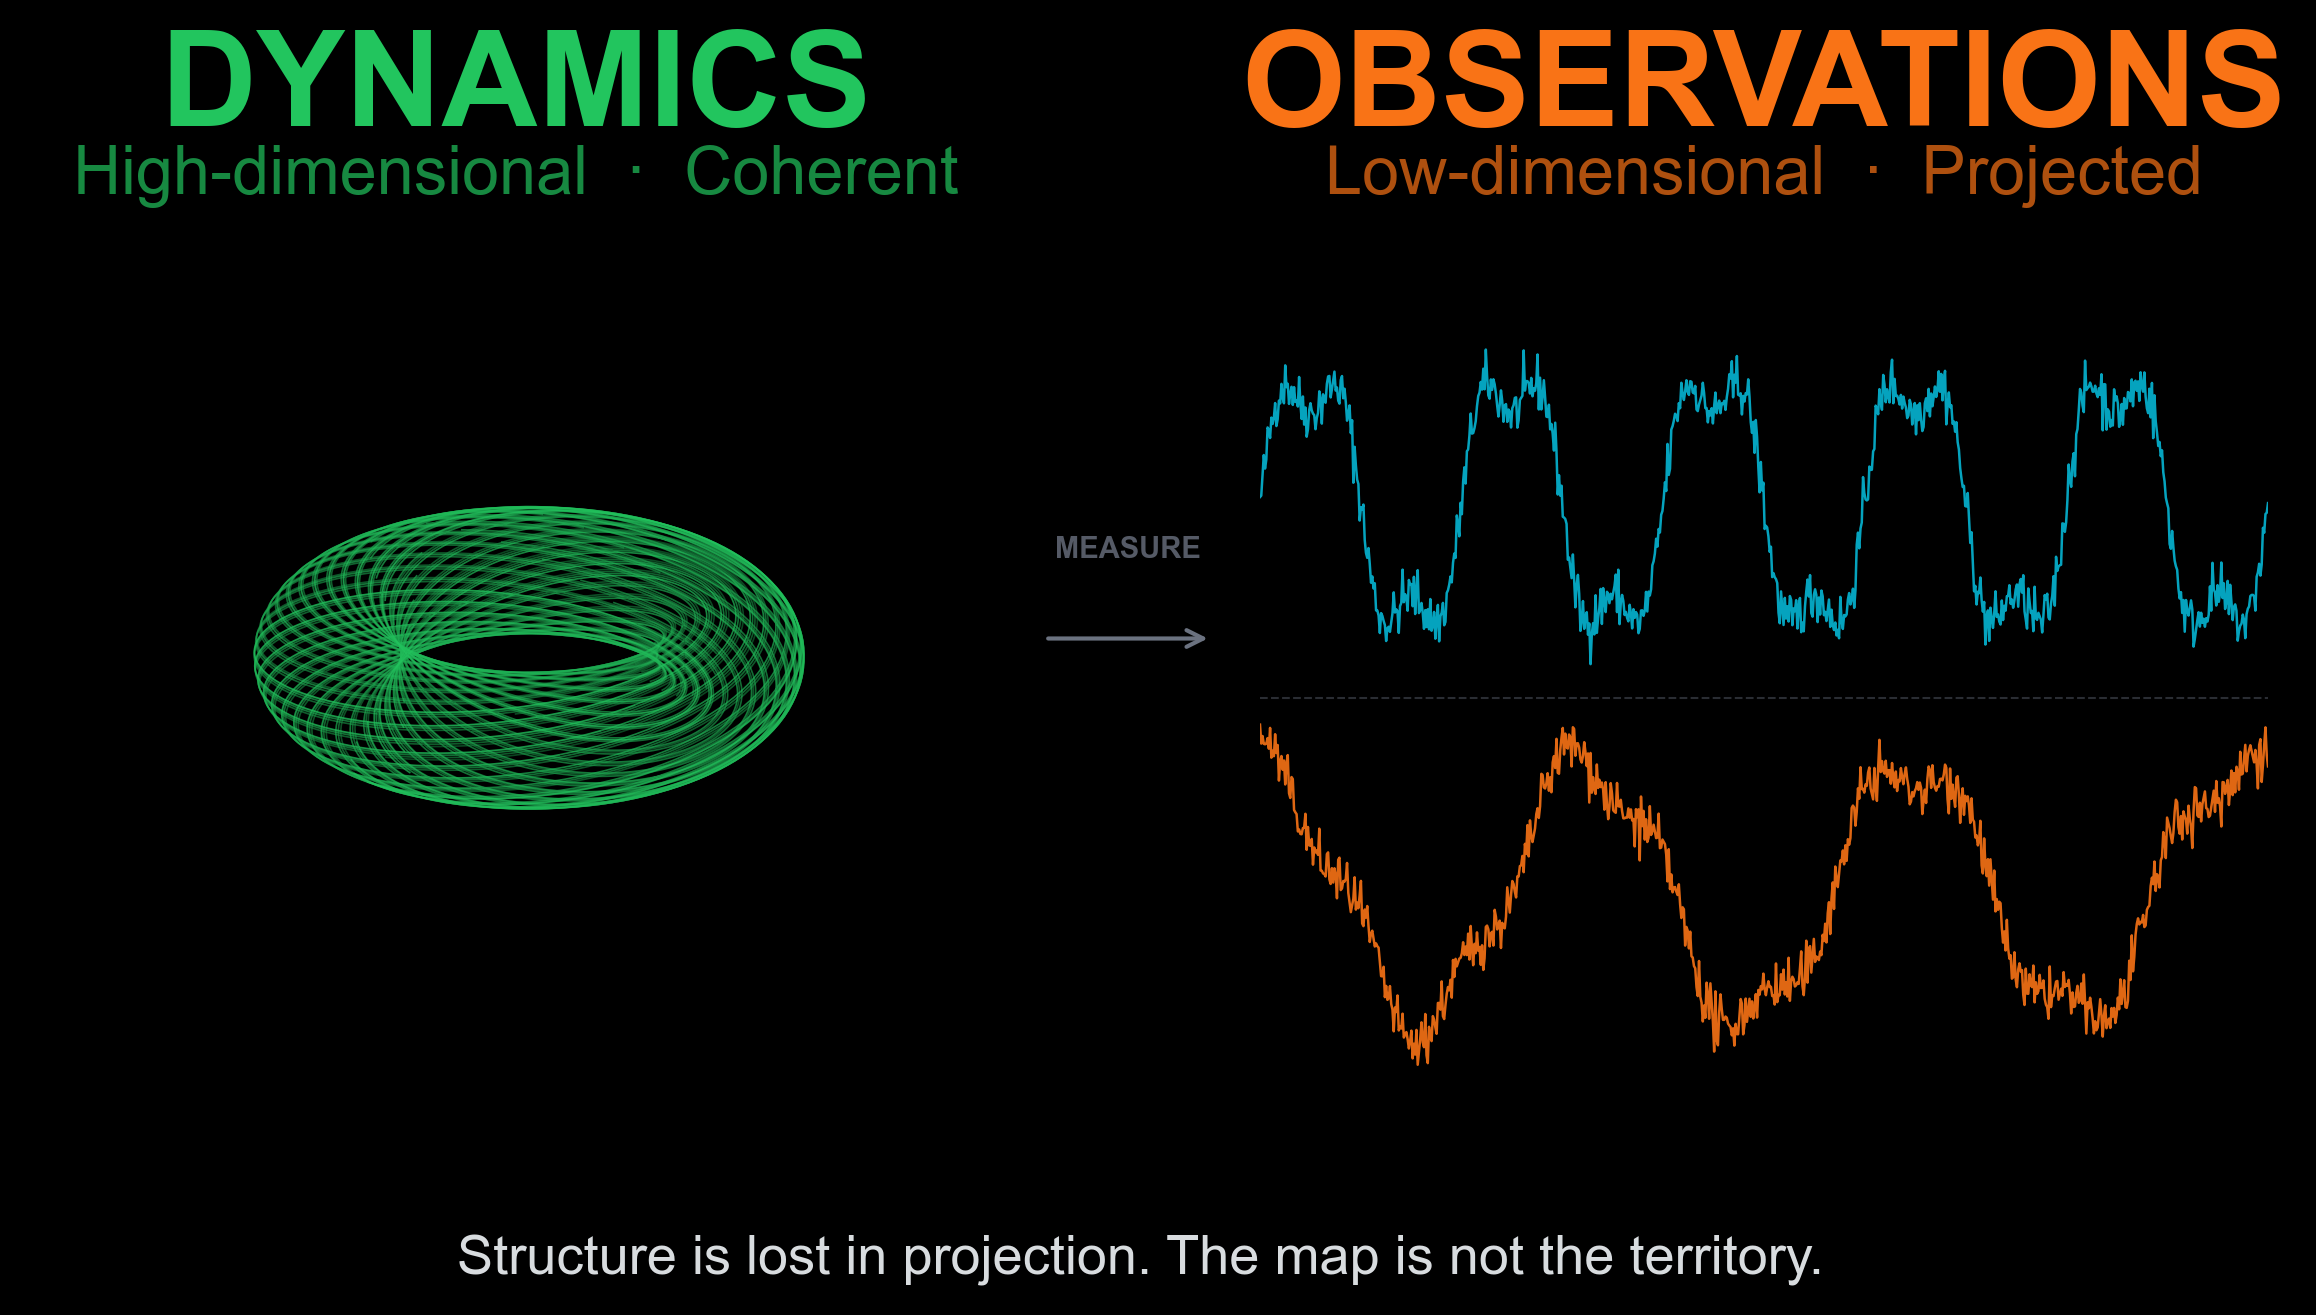
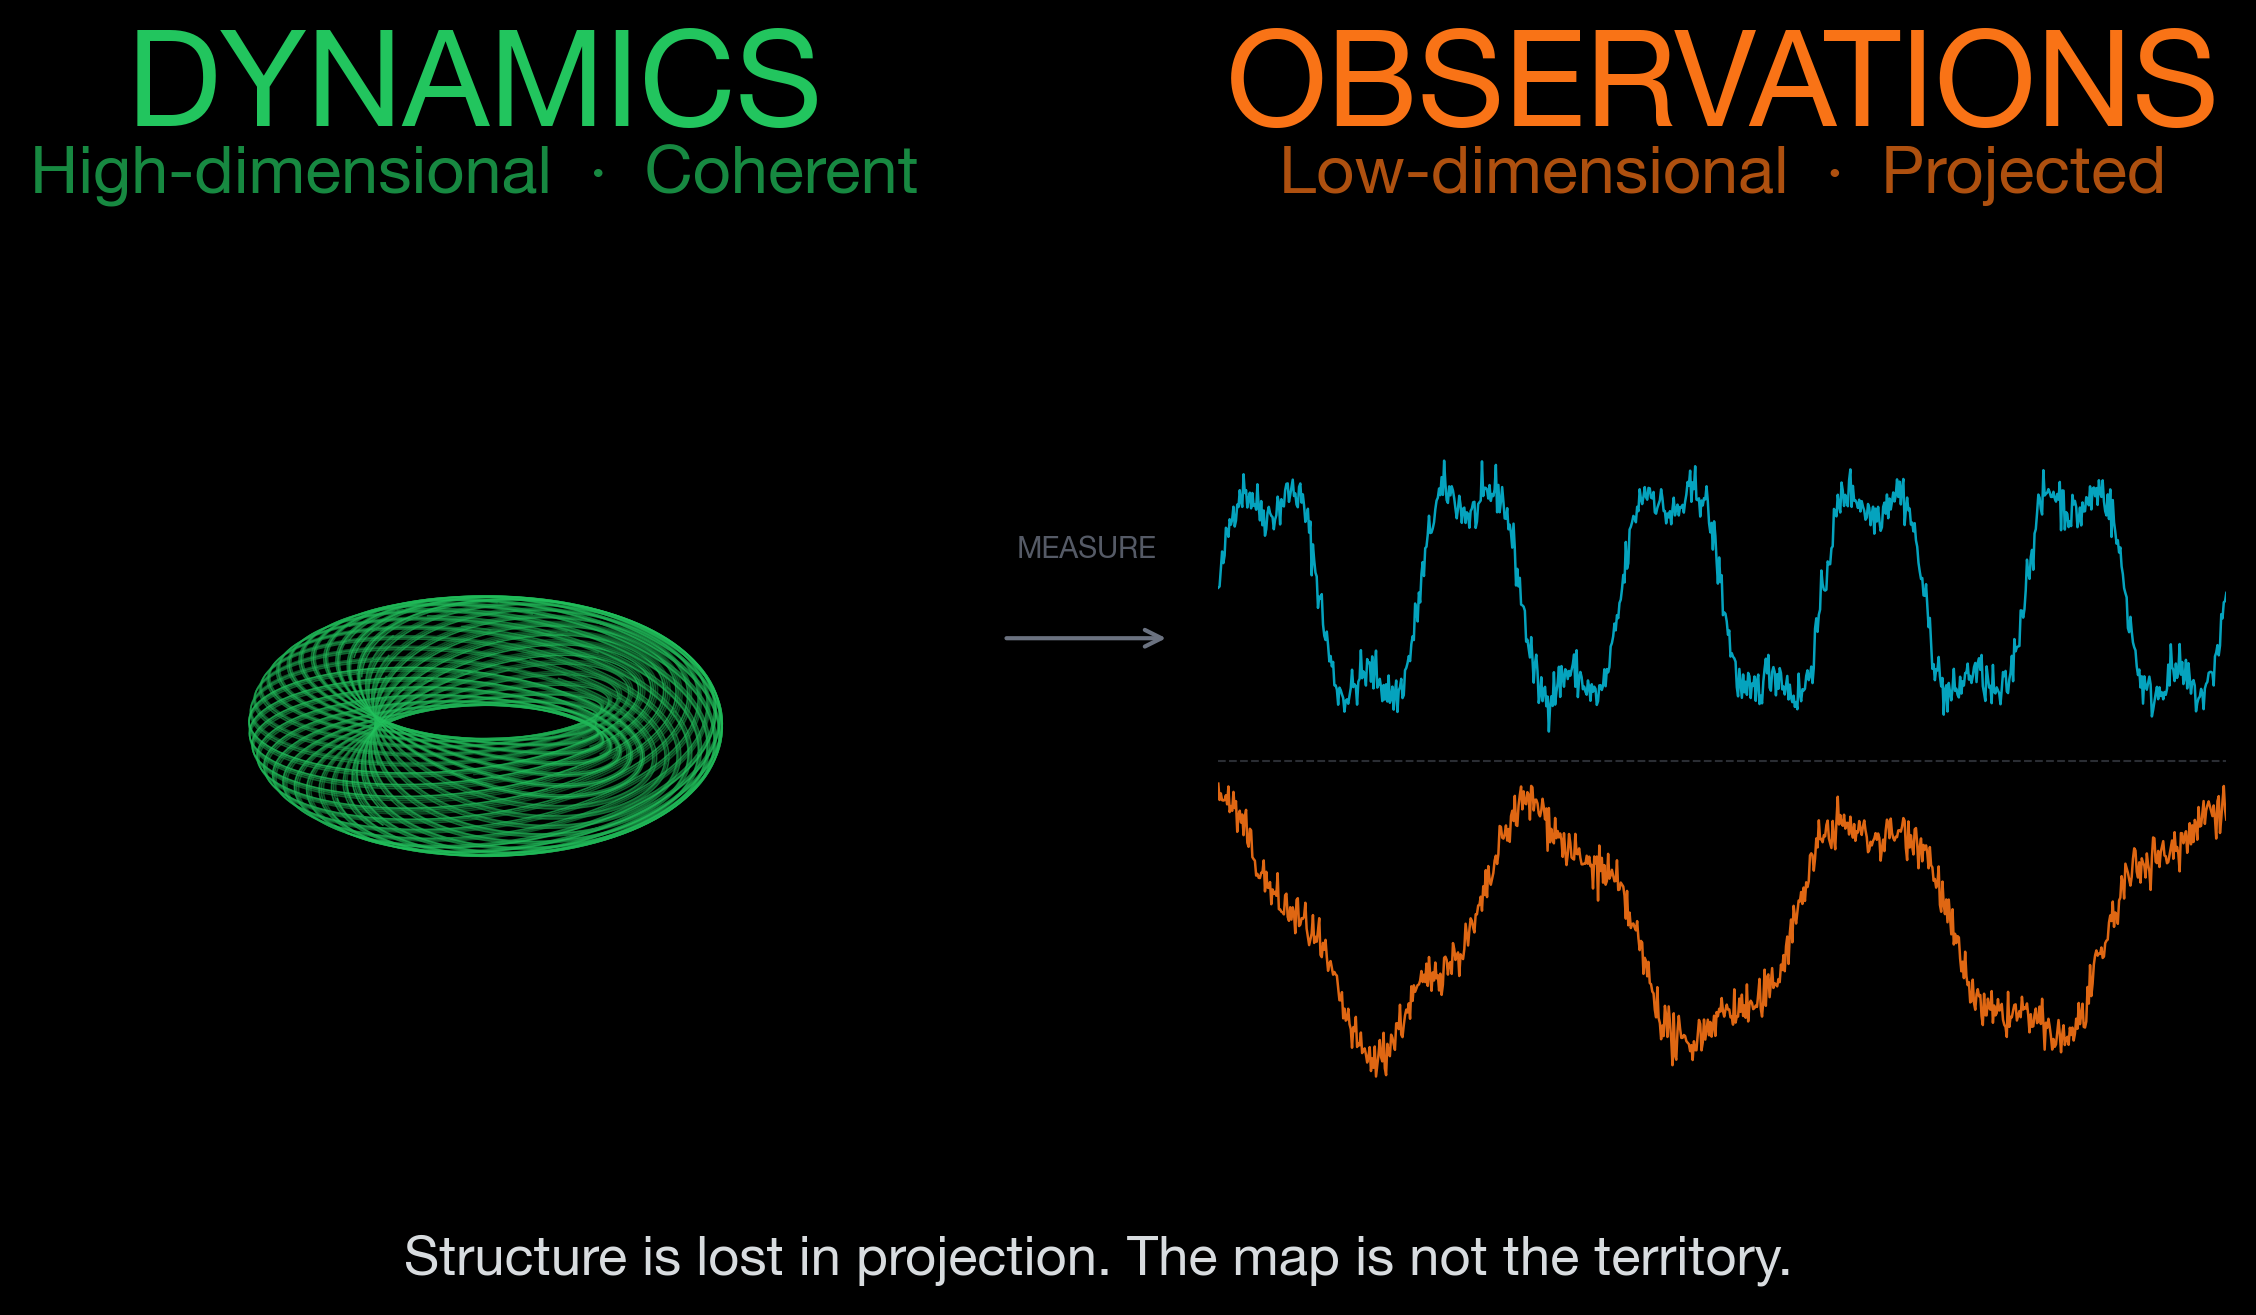
Update homepage figures: Inter font, fix text overlap
- Switch to Inter font for clean, modern web look
- Reduce plot height (0.72 → 0.62) to prevent text overlap
- Tighten scatter point spread to keep within bounds

🤖 Generated with [Claude Code](https://claude.com/claude-code)

diff --git a/scripts/generate_homepage_figures.py b/scripts/generate_homepage_figures.py
@@ -12,9 +12,9 @@ import numpy as np
 import matplotlib.pyplot as plt
 import matplotlib.patches as mpatches
 
-# Force consistent font - use system default for clean look
+# Use Inter for clean, modern web look
 plt.rcParams['font.family'] = 'sans-serif'
-plt.rcParams['font.sans-serif'] = ['Arial', 'DejaVu Sans', 'sans-serif']
+plt.rcParams['font.sans-serif'] = ['Inter', 'Helvetica Neue', 'Arial', 'sans-serif']
 plt.rcParams['font.weight'] = 'normal'
 plt.rcParams['text.color'] = '#f1f5f9'
 plt.rcParams['axes.labelcolor'] = '#f1f5f9'
@@ -58,24 +58,26 @@ def create_hero_image():
     subtitle_size = 32
 
     # Left panel: Bits (scattered random points - chaos, no structure)
-    ax1 = fig.add_axes([0.03, 0.12, 0.44, 0.72], facecolor=BLACK)
+    # Reduced height to avoid overlapping with text above
+    ax1 = fig.add_axes([0.03, 0.12, 0.44, 0.62], facecolor=BLACK)
 
     np.random.seed(42)
     n_points = 200
-    x = np.random.randn(n_points) * 1.2
-    y = np.random.randn(n_points) * 1.2
+    # Tighter spread to keep points contained
+    x = np.random.randn(n_points) * 0.9
+    y = np.random.randn(n_points) * 0.9
 
     # Random colors - no coherence
     colors = [plt.cm.Set1(i % 9) for i in range(n_points)]
     sizes = np.random.uniform(30, 100, n_points)
 
     ax1.scatter(x, y, c=colors, s=sizes, alpha=0.7, edgecolors='none')
-    ax1.set_xlim(-3, 3)
-    ax1.set_ylim(-3, 3)
+    ax1.set_xlim(-2.5, 2.5)
+    ax1.set_ylim(-2.5, 2.5)
     ax1.axis('off')
 
     # Right panel: Dynamics (Lorenz attractor - structured, coherent)
-    ax2 = fig.add_axes([0.53, 0.12, 0.44, 0.72], facecolor=BLACK)
+    ax2 = fig.add_axes([0.53, 0.12, 0.44, 0.62], facecolor=BLACK)
 
     lx, ly, lz = generate_lorenz_attractor(10000)
 
@@ -126,7 +128,8 @@ def create_measurement_image():
     subtitle_size = 32
 
     # Left panel: Torus with many trajectories (high-dimensional state)
-    ax1 = fig.add_axes([0.03, 0.12, 0.42, 0.72], facecolor=BLACK, projection='3d')
+    # Reduced height to avoid overlapping with text above
+    ax1 = fig.add_axes([0.03, 0.12, 0.42, 0.62], facecolor=BLACK, projection='3d')
 
     R, r = 2.2, 0.8
 
@@ -163,7 +166,7 @@ def create_measurement_image():
     ax1.set_box_aspect([1, 1, 0.5])
 
     # Right panel: Projected time series
-    ax2 = fig.add_axes([0.55, 0.12, 0.42, 0.72], facecolor=BLACK)
+    ax2 = fig.add_axes([0.55, 0.12, 0.42, 0.62], facecolor=BLACK)
 
     # Generate projections
     np.random.seed(42)
